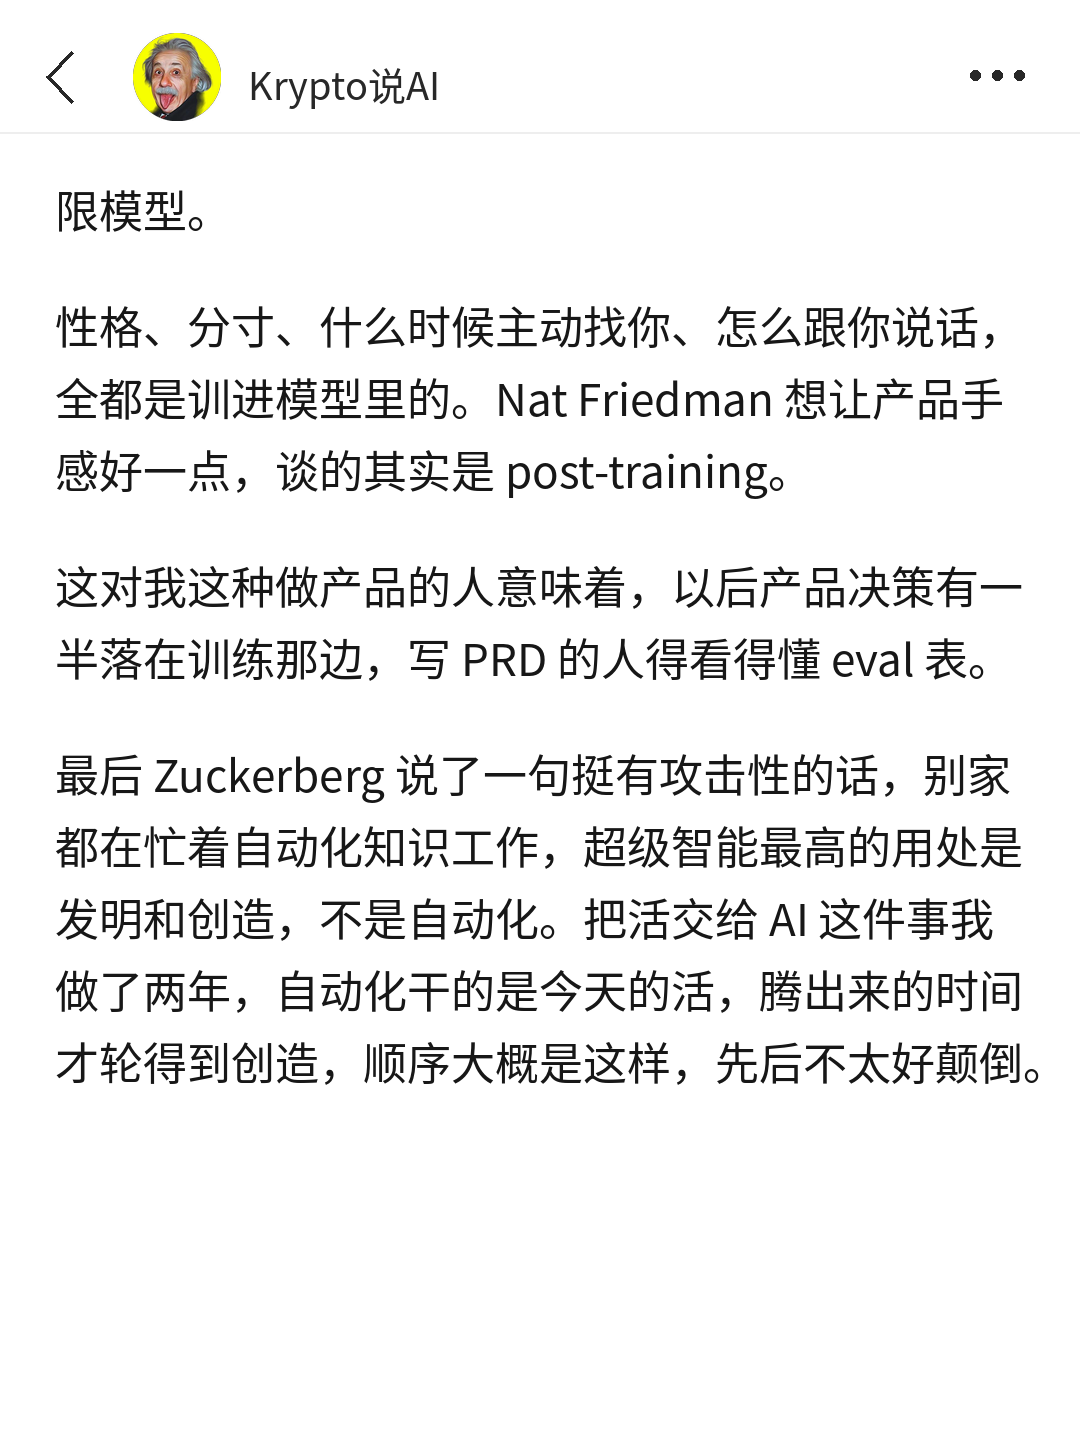
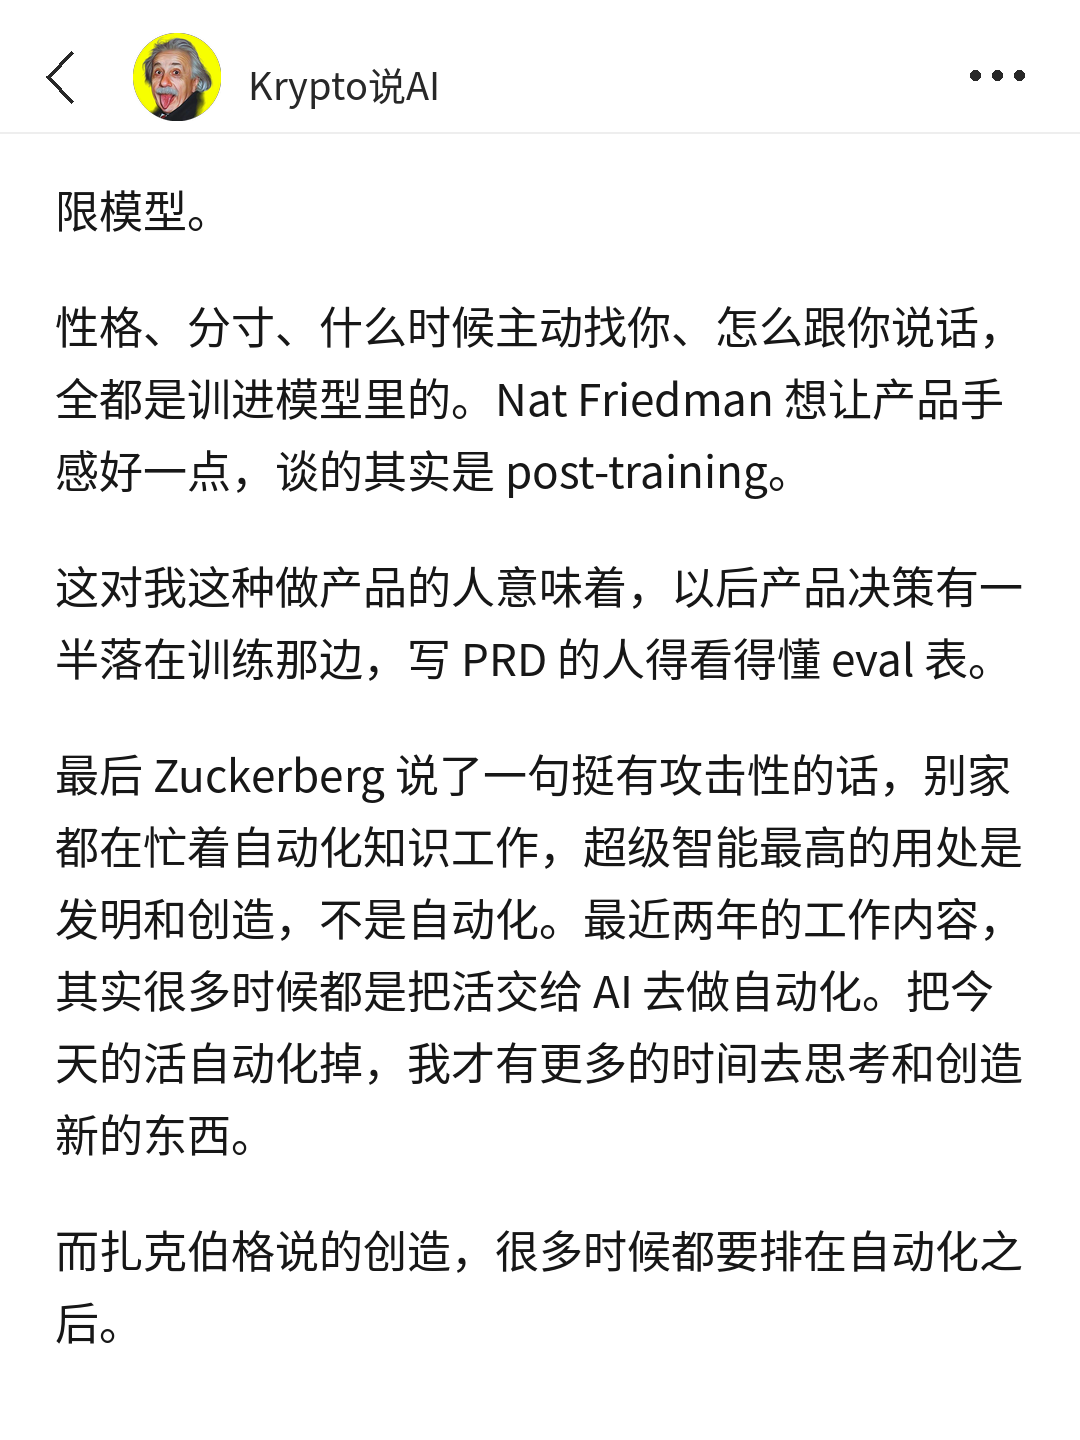
10-13 Muse Wonder 稿：结尾换成用户原话（自动化在前，创造在后）
Claude-Session: https://claude.ai/code/session_01U7qz4eSZJWs6Xuu86S4WTN

Changed region(s): [[0.0306, 0.625, 0.9472, 0.8125], [0.4583, 0.8438, 0.9472, 0.9062], [0.0306, 0.8438, 0.4278, 0.9375]]

diff --git a/发布/2026-10-13_zuck-wang-muse-wonder/meme版/编辑用/draft.md b/发布/2026-10-13_zuck-wang-muse-wonder/meme版/编辑用/draft.md
@@ -64,4 +64,6 @@ Zuckerberg 把这件事往前推了一步，他们内部的说法是 the model i
 
 这对我这种做产品的人意味着，以后产品决策有一半落在训练那边，写 PRD 的人得看得懂 eval 表。
 
-最后 Zuckerberg 说了一句挺有攻击性的话，别家都在忙着自动化知识工作，超级智能最高的用处是发明和创造，不是自动化。把活交给 AI 这件事我做了两年，自动化干的是今天的活，腾出来的时间才轮得到创造，顺序大概是这样，先后不太好颠倒。
+最后 Zuckerberg 说了一句挺有攻击性的话，别家都在忙着自动化知识工作，超级智能最高的用处是发明和创造，不是自动化。最近两年的工作内容，其实很多时候都是把活交给 AI 去做自动化。把今天的活自动化掉，我才有更多的时间去思考和创造新的东西。
+
+而扎克伯格说的创造，很多时候都要排在自动化之后。
